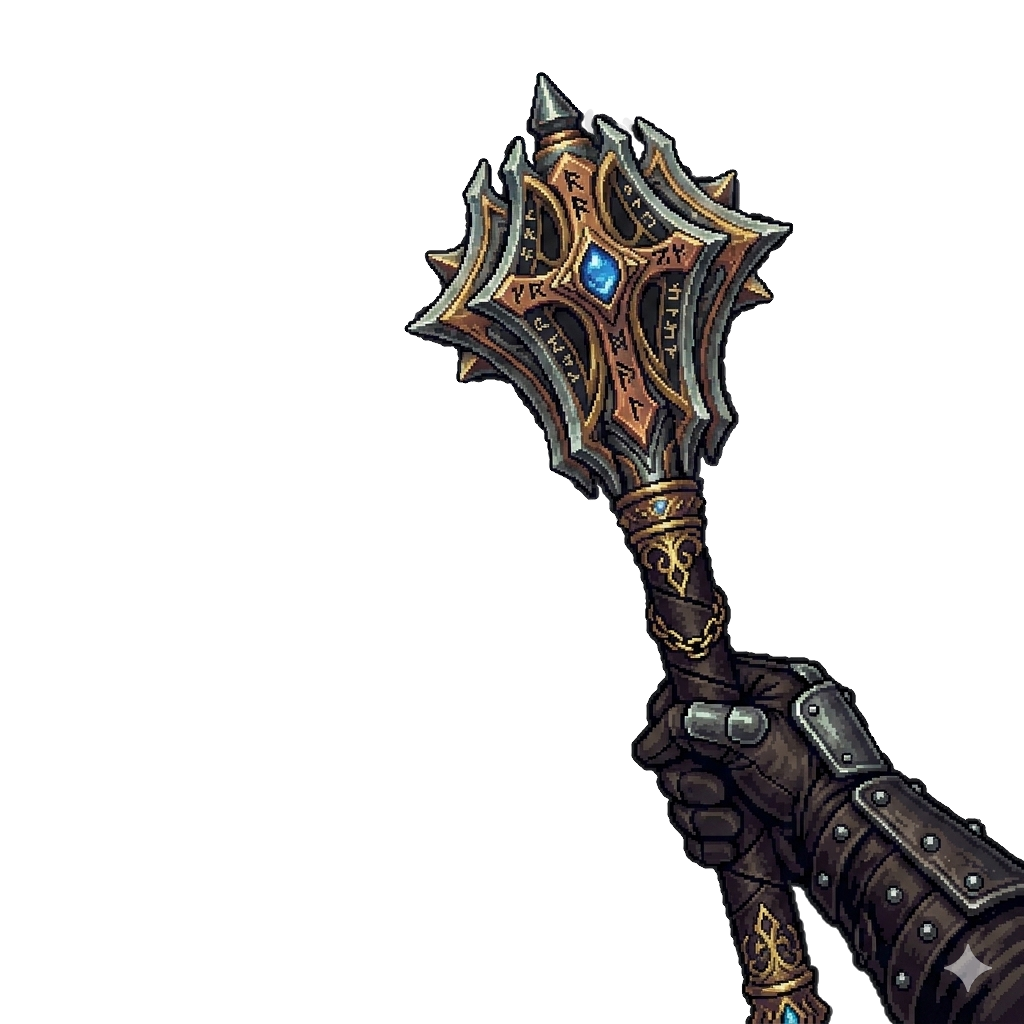
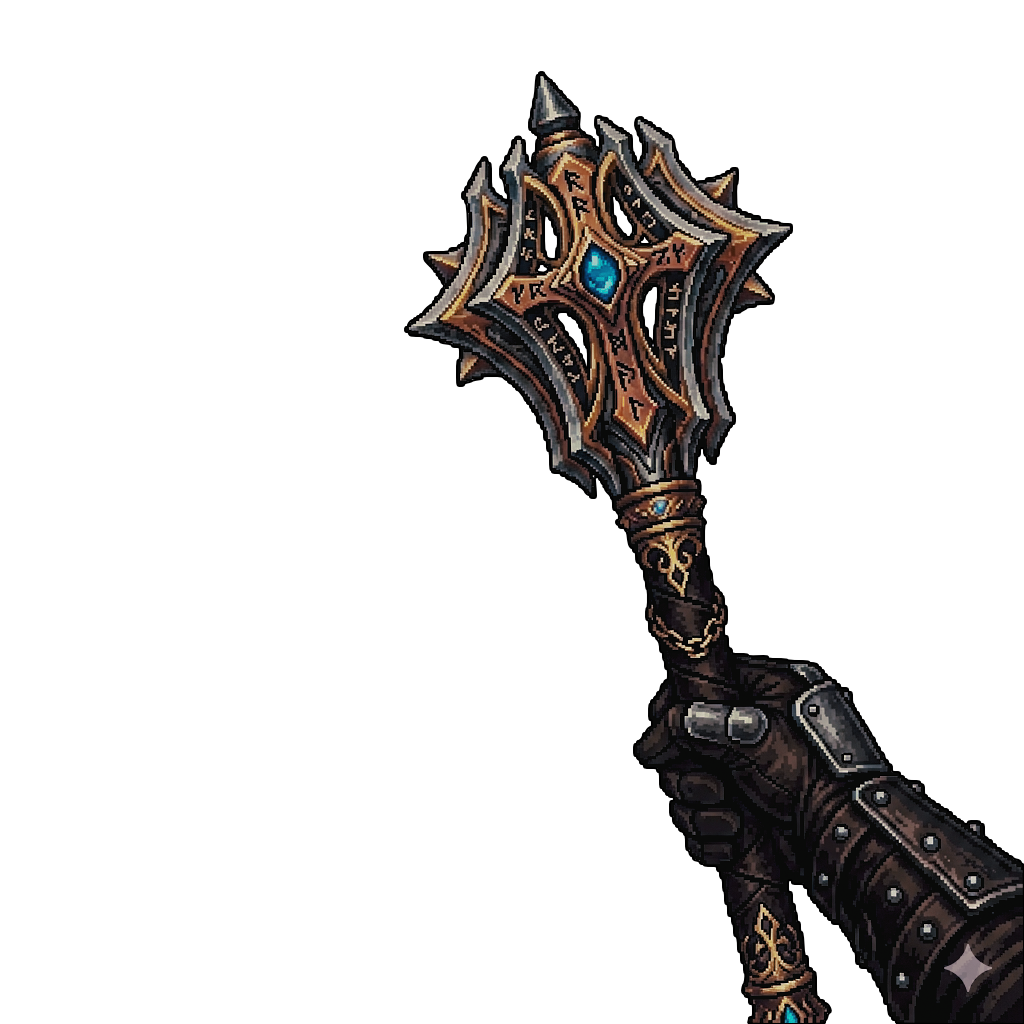
make weapon swingable and sheathable

diff --git a/src/core/input.ts b/src/core/input.ts
@@ -23,9 +23,13 @@ export class Input {
   private lookTouchId: number | null = null;
   private lastLookX = 0;
 
+  private attackQueued = false;
+  private sheathToggleQueued = false;
+
   constructor(private canvas: HTMLCanvasElement) {
     document.addEventListener('keydown', this.onKeyDown.bind(this), false);
     document.addEventListener('keyup', this.onKeyUp.bind(this), false);
+    document.addEventListener('mousedown', this.onMouseDown.bind(this), false);
     document.addEventListener('mousemove', this.onMouseMove.bind(this), false);
     document.addEventListener('touchstart', this.onTouch.bind(this), false);
     document.addEventListener('touchmove', this.onTouch.bind(this), false);
@@ -39,6 +43,24 @@ export class Input {
     const delta = this.turnDelta;
     this.turnDelta = 0;
     return delta;
+  }
+
+  consumeAttack(): boolean {
+    const attack = this.attackQueued;
+    this.attackQueued = false;
+    return attack;
+  }
+
+  consumeSheathToggle(): boolean {
+    const toggle = this.sheathToggleQueued;
+    this.sheathToggleQueued = false;
+    return toggle;
+  }
+
+  private onMouseDown(e: MouseEvent): void {
+    if (document.pointerLockElement !== this.canvas || e.button !== 0) return;
+    this.attackQueued = true;
+    e.preventDefault();
   }
 
   private onCanvasClick(): void {
@@ -116,6 +138,18 @@ export class Input {
 
     if (e.code === CONFIG.debugKey) {
       toggleDebug();
+      e.preventDefault();
+      return;
+    }
+
+    if (e.code === 'Space' && !e.repeat) {
+      this.attackQueued = true;
+      e.preventDefault();
+      return;
+    }
+
+    if (e.code === 'KeyQ' && !e.repeat) {
+      this.sheathToggleQueued = true;
       e.preventDefault();
       return;
     }

diff --git a/src/game/weaponSwing.ts b/src/game/weaponSwing.ts
@@ -1,0 +1,34 @@
+import { CONFIG } from '../core/config';
+
+/** Swing offset applied on top of the idle weapon pose. */
+export interface WeaponSwingTransform {
+  /** Added to the base weapon rotation (radians, screen Y-down). */
+  rotation: number;
+  /** Offset as fractions of sprite width (x) and height (y); positive y lifts up. */
+  translation: { x: number; y: number };
+}
+
+export type WeaponSwingPose = WeaponSwingTransform;
+
+function lerp(a: number, b: number, t: number): number {
+  return a + (b - a) * t;
+}
+
+function smoothstep(t: number): number {
+  const x = Math.max(0, Math.min(1, t));
+  return x * x * (3 - 2 * x);
+}
+
+/** Interpolates from the wind-up pose to the follow-through over progress 0–1. */
+export function swingTransformAt(progress: number): WeaponSwingTransform {
+  const { start, end } = CONFIG.weapon.swing;
+  const t = smoothstep(progress);
+
+  return {
+    rotation: lerp(start.rotation, end.rotation, t),
+    translation: {
+      x: lerp(start.translation.x, end.translation.x, t),
+      y: lerp(start.translation.y, end.translation.y, t)
+    }
+  };
+}

diff --git a/src/game/player.ts b/src/game/player.ts
@@ -6,9 +6,21 @@ import { World } from './world/index';
 export class Player {
   readonly weapon: Bitmap;
   private _paces = 0;
+  private _swingTime = 0;
+  private _sheathed = false;
 
   get paces(): number {
     return this._paces;
+  }
+
+  get sheathed(): boolean {
+    return this._sheathed;
+  }
+
+  /** 0 when idle; 0–1 while a swing is playing. */
+  get swingProgress(): number {
+    if (this._swingTime <= 0) return 0;
+    return Math.min(1, this._swingTime / CONFIG.weapon.swing.duration);
   }
 
   constructor(
@@ -35,9 +47,28 @@ export class Player {
     controls: ControlStates,
     map: World,
     seconds: number,
-    turnDelta = 0
+    turnDelta = 0,
+    attack = false,
+    sheathToggle = false
   ): void {
     if (turnDelta !== 0) this.rotate(turnDelta);
+
+    if (sheathToggle) {
+      this._sheathed = !this._sheathed;
+      if (this._sheathed) {
+        this._swingTime = 0;
+      }
+    }
+
+    if (attack && !this._sheathed && this._swingTime <= 0) {
+      this._swingTime = Number.EPSILON;
+    }
+    if (this._swingTime > 0) {
+      this._swingTime += seconds;
+      if (this._swingTime >= CONFIG.weapon.swing.duration) {
+        this._swingTime = 0;
+      }
+    }
 
     let forward = 0;
     if (controls.forward) forward += 1;

diff --git a/src/game/weaponSwing.test.ts b/src/game/weaponSwing.test.ts
@@ -1,0 +1,24 @@
+import { describe, expect, it } from 'vitest';
+import { swingTransformAt } from './weaponSwing';
+
+describe('swingTransformAt', () => {
+  it('starts at the wind-up pose', () => {
+    const t = swingTransformAt(0);
+    expect(t.rotation).toBeCloseTo(0.2, 6);
+    expect(t.translation.y).toBeGreaterThan(0);
+  });
+
+  it('ends at the follow-through pose', () => {
+    const t = swingTransformAt(1);
+    expect(t.rotation).toBeCloseTo(0.2 - Math.PI / 2, 6);
+    expect(t.translation.y).toBeLessThan(0);
+  });
+
+  it('moves monotonically downward through the swing', () => {
+    const mid = swingTransformAt(0.5);
+    const start = swingTransformAt(0);
+    const end = swingTransformAt(1);
+    expect(mid.translation.y).toBeLessThan(start.translation.y);
+    expect(mid.translation.y).toBeGreaterThan(end.translation.y);
+  });
+});

diff --git a/src/core/config.ts b/src/core/config.ts
@@ -27,9 +27,22 @@ export const CONFIG = {
     /** Rotation in radians around the pivot (screen Y-down). */
     rotation: 0,
     /** Sprite size multiplier applied on top of viewport weaponScale. */
-    scale: 0.5,
+    scale: 0.6,
     /** Bob amplitude multiplier; scaled by weaponScale each frame. */
-    bobAmplitude: 6
+    bobAmplitude: 6,
+    swing: {
+      duration: 0.35,
+      /** Wind-up: raised and slightly clockwise. */
+      start: {
+        rotation: 0.5,
+        translation: { x: 0, y: 0.08 }
+      },
+      /** Follow-through: dropped and ~90° anticlockwise from the wind-up. */
+      end: {
+        rotation: 0 - Math.PI / 2,
+        translation: { x: -0.5, y: -0.1 }
+      }
+    }
   },
   fixedTimestep: 1 / 60,
   maxFrameDelta: 0.2,

diff --git a/src/engine/gl/passes/weaponPass.ts b/src/engine/gl/passes/weaponPass.ts
@@ -1,4 +1,5 @@
 import { CONFIG } from '../../../core/config';
+import { swingTransformAt } from '../../../game/weaponSwing';
 import { combineShader, linkProgram } from '../glUtils';
 import { getBitmapTexture } from '../glTexture';
 import { Program } from '../program';
@@ -33,7 +34,7 @@ export class WeaponPass implements RenderPass {
     const gl = ctx.gl;
     const program = this.program;
     const batch = this.batch;
-    if (!program || !batch) return;
+    if (!program || !batch || ctx.player.sheathed) return;
 
     const { position, pivot, rotation, scale, bobAmplitude } = CONFIG.weapon;
     const bobScale = ctx.weaponScale * bobAmplitude;
@@ -43,8 +44,13 @@ export class WeaponPass implements RenderPass {
     const sizeScale = ctx.weaponScale * scale;
     const w = weapon.width * sizeScale;
     const h = weapon.height * sizeScale;
-    const pivotX = ctx.width * position.x + bobX;
-    const pivotY = ctx.height * position.y + bobY;
+    const swing = ctx.player.swingProgress;
+    const swingPose = swing > 0 ? swingTransformAt(swing) : null;
+    const swingRotation = rotation + (swingPose?.rotation ?? 0);
+    const swingOffsetX = (swingPose?.translation.x ?? 0) * w;
+    const swingOffsetY = (swingPose?.translation.y ?? 0) * h;
+    const pivotX = ctx.width * position.x + bobX + swingOffsetX;
+    const pivotY = ctx.height * position.y + bobY - swingOffsetY;
     const left = pivotX - w * pivot.x;
     const top = pivotY - h * pivot.y;
 
@@ -66,7 +72,7 @@ export class WeaponPass implements RenderPass {
       h,
       pivot.x,
       pivot.y,
-      rotation,
+      swingRotation,
       0,
       1,
       0

diff --git a/src/main.ts b/src/main.ts
@@ -8,7 +8,7 @@ import { Renderer } from './engine/renderer';
 import { mountStatsOverlay } from './engine/statsOverlay';
 import { Player } from './game/player';
 import { World, loadLevelRecipe } from './game/world';
-import weaponMaceImg from './assets/mace_weapon_1_small.png';
+import weaponMaceImg from './assets/mace_weapon_1.png';
 
 function getCanvas(): HTMLCanvasElement {
   const display = document.getElementById('display');
@@ -46,7 +46,14 @@ async function main(): Promise<void> {
     update(dt) {
       world.ensureAround(player.x, player.y);
       world.update(dt, player.x, player.y);
-      player.update(input.states, world, dt, input.consumeTurnDelta());
+      player.update(
+        input.states,
+        world,
+        dt,
+        input.consumeTurnDelta(),
+        input.consumeAttack(),
+        input.consumeSheathToggle()
+      );
     },
     render() {
       renderer.render(player, world);